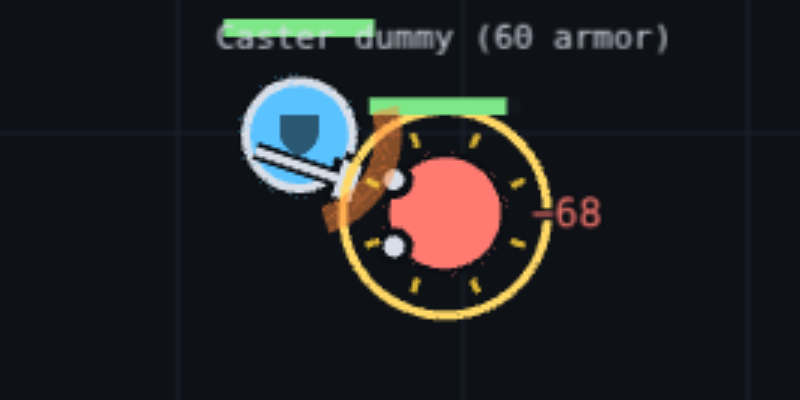
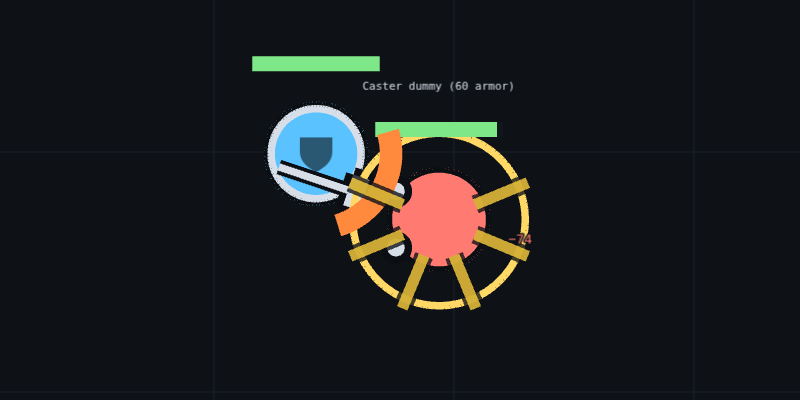
#3292: hit marks that read over the target ring
A flying spell's landing is its own shape now: thick, dark-outlined
ember spikes reaching past the target ring. An attack skill's star is
thick, dark-outlined and crosses the body's edge and the ring like a
crosshair. Both leave out the two spikes that would point up into the
health bar. The skill arc holds whole for its first 0.1 s so its warm
colour reads before it fades. Re-shot all three PNGs.

Changed region(s): [[0.25, 0.03, 0.75, 0.81], [0.5938, 0.06, 0.8438, 0.15]]

diff --git a/apps/web/src/render/body-impacts.ts b/apps/web/src/render/body-impacts.ts
@@ -14,13 +14,16 @@ import { SKILL_SPRITE } from "./projectiles.js";
  * impact"): every body it touched flashes for a moment. A burst of spikes
  * when it hurt or hindered that body, a glow when it helped, so the two
  * read without colour; the colour is the skill type's where the palette
- * has one, else what it did. A flying spell lands in a warm burst, and an
- * attack skill strikes a bigger gold star (#3292).
+ * has one, else what it did. A flying spell lands in a bigger warm
+ * burst, and an attack skill strikes a gold star across the body's edge,
+ * both thick, outlined and reaching past the target ring so they read
+ * over it (#3292).
  *
  * No Phaser here, so it can be tested in Node.
  */
 
-export type ImpactShape = "burst" | "star" | "glow";
+/** `landing` is a flying spell's burst, `star` an attack skill's (#3292). */
+export type ImpactShape = "burst" | "landing" | "star" | "glow";
 
 export interface Impact {
   /** The body it flashes on, drawn where that body is now. */
@@ -122,11 +125,19 @@ export function impactsFor(message: CombatMessage): readonly Impact[] {
         remainingSeconds: IMPACT_SECONDS,
       };
     }
+    if (flying) {
+      return {
+        anchorId,
+        shape: "landing",
+        colour: FLYING_SPELL_BURST_COLOUR,
+        remainingSeconds: IMPACT_SECONDS,
+      };
+    }
     const byEffect = seen.has("harm") ? DAMAGE_COLOUR : CONDITION_COLOUR;
     return {
       anchorId,
       shape: "burst",
-      colour: flying ? FLYING_SPELL_BURST_COLOUR : (typeColour ?? byEffect),
+      colour: typeColour ?? byEffect,
       remainingSeconds: IMPACT_SECONDS,
     };
   });
@@ -153,15 +164,44 @@ export function mergeImpacts(
 }
 
 export type ImpactMark =
-  | { readonly kind: "spike"; readonly from: Vec2; readonly to: Vec2; readonly alpha: number }
+  | {
+      readonly kind: "spike";
+      readonly from: Vec2;
+      readonly to: Vec2;
+      readonly alpha: number;
+      /** Line width, px; an outlined spike gets a dark edge under it. */
+      readonly width: number;
+      readonly outlined: boolean;
+    }
   | { readonly kind: "tint" | "ring"; readonly radius: number; readonly alpha: number };
 
 /** The burst's spikes. */
 export const IMPACT_SPIKES = 8;
-/** Every mark stays inside the body's radius plus this, clear of the target ring at r + 8. */
+/** A plain burst and a glow stay inside the body's radius plus this, clear of the target ring at r + 8. */
 export const IMPACT_REACH = 6;
-/** An attack skill's star reaches this many times as far as a burst (#3292). */
-export const STAR_REACH_SCALE = 1.5;
+
+/**
+ * A spiked shape's spikes, from the body's edge: where each starts and
+ * ends at the start of the flash, how far both move out by its end, and
+ * how they are drawn. A landing and a star reach past the target ring
+ * (r + 8), thick and outlined so they read over it in any colour, and
+ * leave out the spikes that would point up into the health bar (#3292).
+ */
+interface SpikeLook {
+  readonly inner: number;
+  readonly outer: number;
+  readonly grow: readonly [inner: number, outer: number];
+  readonly width: number;
+  readonly outlined: boolean;
+  readonly clearOfBar: boolean;
+}
+export const SPIKE_LOOK: Readonly<Record<Exclude<ImpactShape, "glow">, SpikeLook>> = {
+  burst: { inner: 1, outer: 3, grow: [2, 3], width: 1.5, outlined: false, clearOfBar: false },
+  landing: { inner: 2, outer: 9, grow: [2, 4], width: 3, outlined: true, clearOfBar: true },
+  star: { inner: -4, outer: 11, grow: [2, 3], width: 3, outlined: true, clearOfBar: true },
+};
+/** A spike pointing up more steeply than this (sine of its angle, y down) would cross the health bar. */
+const UP_INTO_BAR = -0.7;
 const GLOW_TINT_ALPHA = 0.35;
 
 /**
@@ -179,20 +219,22 @@ export function impactMarks(
     : Math.min(1, Math.max(0, 1 - impact.remainingSeconds / IMPACT_SECONDS));
   const alpha = reducedMotion ? 1 : 1 - progress;
   if (impact.shape !== "glow") {
-    const scale = impact.shape === "star" ? STAR_REACH_SCALE : 1;
-    const inner = radius + scale * (1 + 2 * progress);
-    const outer = radius + scale * (3 + 3 * progress);
+    const look = SPIKE_LOOK[impact.shape];
+    const inner = radius + look.inner + look.grow[0] * progress;
+    const outer = radius + look.outer + look.grow[1] * progress;
     return Array.from({ length: IMPACT_SPIKES }, (_, k) => {
       const angle = Math.PI / IMPACT_SPIKES + (k * 2 * Math.PI) / IMPACT_SPIKES;
-      const cos = Math.cos(angle);
-      const sin = Math.sin(angle);
-      return {
+      return { cos: Math.cos(angle), sin: Math.sin(angle) };
+    })
+      .filter(({ sin }) => !look.clearOfBar || sin >= UP_INTO_BAR)
+      .map(({ cos, sin }): ImpactMark => ({
         kind: "spike",
         from: vec2(cos * inner, sin * inner),
         to: vec2(cos * outer, sin * outer),
         alpha,
-      };
-    });
+        width: look.width,
+        outlined: look.outlined,
+      }));
   }
   const ringRadius = reducedMotion ? radius + 4 : radius + IMPACT_REACH - 4 * progress;
   return [

diff --git a/apps/web/src/render/body-impacts.test.ts b/apps/web/src/render/body-impacts.test.ts
@@ -7,7 +7,7 @@ import {
   IMPACT_REACH,
   IMPACT_SECONDS,
   MAX_IMPACTS,
-  STAR_REACH_SCALE,
+  SPIKE_LOOK,
   impactMarks,
   impactsFor,
   mergeImpacts,
@@ -157,9 +157,9 @@ describe("impactsFor (#1139)", () => {
 describe("impactsFor, flight and hit (#3292)", () => {
   const hit = { kind: "damage", targetId: "foe", amount: 50, critical: false } as const;
 
-  it("lands a flying spell that hit in a warm burst, and shows nothing for one that missed", () => {
+  it("lands a flying spell that hit in a warm landing burst, and shows nothing for one that missed", () => {
     expect(shapes(message("elementalist.glowstone", [hit]))).toEqual([
-      ["foe", "burst", FLYING_SPELL_BURST_COLOUR],
+      ["foe", "landing", FLYING_SPELL_BURST_COLOUR],
     ]);
     expect(
       shapes(
@@ -167,7 +167,7 @@ describe("impactsFor, flight and hit (#3292)", () => {
           { kind: "status-applied", targetId: "foe", statusId: "blind", durationSeconds: 3 },
         ]),
       ),
-    ).toEqual([["foe", "burst", FLYING_SPELL_BURST_COLOUR]]);
+    ).toEqual([["foe", "landing", FLYING_SPELL_BURST_COLOUR]]);
     expect(
       shapes(message("elementalist.glowstone", [{ kind: "attack-dodged", targetId: "foe" }])),
     ).toEqual([]);
@@ -246,19 +246,43 @@ describe("impactMarks (#1139)", () => {
     }
   });
 
-  it("reaches half as far again for an attack skill's star, 8 spikes like a burst (#3292)", () => {
-    for (const reducedMotion of [false, true]) {
-      for (let step = 0; step <= 10; step += 1) {
-        const remainingSeconds = (IMPACT_SECONDS * step) / 10;
-        const burst = impactMarks(impact("a", remainingSeconds), 14, reducedMotion);
-        const star = impactMarks(
-          { ...impact("a", remainingSeconds), shape: "star" },
-          14,
-          reducedMotion,
-        );
-        expect(star).toHaveLength(8);
-        expect(reach(star) - 14).toBeCloseTo(STAR_REACH_SCALE * (reach(burst) - 14), 9);
-        expect(reach(star)).toBeLessThanOrEqual(14 + STAR_REACH_SCALE * IMPACT_REACH + 1e-9);
+  it("reaches a landing and a star past the target ring, thick and outlined, clear of the health bar (#3292)", () => {
+    for (const shape of ["landing", "star"] as const) {
+      for (const reducedMotion of [false, true]) {
+        for (let step = 0; step <= 10; step += 1) {
+          const remainingSeconds = (IMPACT_SECONDS * step) / 10;
+          const marks = impactMarks({ ...impact("a", remainingSeconds), shape }, 14, reducedMotion);
+          // 8 round, less the two that would point up into the bar.
+          expect(marks).toHaveLength(6);
+          for (const mark of marks) {
+            if (mark.kind !== "spike") {
+              throw new Error("a spiked shape draws only spikes");
+            }
+            const out = Math.hypot(mark.to.x, mark.to.y);
+            // Past the target ring at r + 8, and the dashed edge a ward draws.
+            expect(out).toBeGreaterThan(14 + 8);
+            expect(out).toBeLessThanOrEqual(14 + 15);
+            expect(mark.to.y / out).toBeGreaterThanOrEqual(-0.7);
+            expect(mark.width).toBeGreaterThanOrEqual(3);
+            expect(mark.outlined).toBe(true);
+          }
+        }
+      }
+    }
+    expect(SPIKE_LOOK.burst.outlined).toBe(false);
+  });
+
+  it("crosses the body's edge with an attack skill's star, like a crosshair (#3292)", () => {
+    for (let step = 0; step <= 10; step += 1) {
+      const remainingSeconds = (IMPACT_SECONDS * step) / 10;
+      for (const mark of impactMarks(
+        { ...impact("a", remainingSeconds), shape: "star" },
+        14,
+        false,
+      )) {
+        if (mark.kind === "spike") {
+          expect(Math.hypot(mark.from.x, mark.from.y)).toBeLessThan(14);
+        }
       }
     }
     const fresh = impactMarks({ ...impact("a"), shape: "star" }, 14, true);

diff --git a/apps/web/src/render/arena-scene.ts b/apps/web/src/render/arena-scene.ts
@@ -464,6 +464,9 @@ const EDGE_MARKER_LENGTH = 12;
 const EDGE_MARKER_WIDTH = 10;
 /** A skill impact's spikes and ring (#1139). */
 const IMPACT_LINE_WIDTH = 1.5;
+/** An outlined impact spike's dark edge (#3292): this much wider than the spike, the sprites' outline colour. */
+const IMPACT_OUTLINE = 2;
+const IMPACT_OUTLINE_COLOUR = 0x0e1116;
 /**
  * The world's layers, bottom up (#1037). Wards on the floor and their
  * icons (#1087), under everything that stands on them; the grid and the
@@ -1750,7 +1753,11 @@ export class ArenaScene extends Phaser.Scene {
     const { x, y } = actor.position;
     for (const mark of impactMarks(impact, actor.radius, this.reducedMotion)) {
       if (mark.kind === "spike") {
-        g.lineStyle(IMPACT_LINE_WIDTH, impact.colour, mark.alpha);
+        if (mark.outlined) {
+          g.lineStyle(mark.width + IMPACT_OUTLINE, IMPACT_OUTLINE_COLOUR, mark.alpha);
+          g.lineBetween(x + mark.from.x, y + mark.from.y, x + mark.to.x, y + mark.to.y);
+        }
+        g.lineStyle(mark.width, impact.colour, mark.alpha);
         g.lineBetween(x + mark.from.x, y + mark.from.y, x + mark.to.x, y + mark.to.y);
       } else if (mark.kind === "tint") {
         g.fillStyle(impact.colour, mark.alpha);

diff --git a/apps/web/src/render/combat-feedback.test.ts b/apps/web/src/render/combat-feedback.test.ts
@@ -466,7 +466,7 @@ describe("swingFlashFor (#161)", () => {
     ).toBeUndefined();
   });
 
-  it("fades an attack skill's arc out in 0.2 s, and holds it whole under reduced motion", () => {
+  it("holds an attack skill's arc whole for 0.1 s, fades it out by 0.2 s, and holds it whole under reduced motion", () => {
     const arc = swingFlashFor(
       { ...swing("skill"), skillId: "warrior.mighty-blow" },
       snapshot("sword"),
@@ -477,8 +477,10 @@ describe("swingFlashFor (#161)", () => {
     const flash = { ...arc, id: 1 };
     expect(swingFlashAlpha(flash, false)).toBe(1);
     const [half] = decaySwingFlashes([flash], SKILL_ARC_SECONDS / 2);
-    expect(half === undefined ? 0 : swingFlashAlpha(half, false)).toBeCloseTo(0.5, 9);
+    expect(half === undefined ? 0 : swingFlashAlpha(half, false)).toBeCloseTo(1, 9);
     expect(half === undefined ? 0 : swingFlashAlpha(half, true)).toBe(1);
+    const [late] = decaySwingFlashes([flash], (SKILL_ARC_SECONDS * 3) / 4);
+    expect(late === undefined ? 0 : swingFlashAlpha(late, false)).toBeCloseTo(0.5, 9);
     expect(decaySwingFlashes([flash], SKILL_ARC_SECONDS + 0.01)).toEqual([]);
   });
 

diff --git a/apps/web/src/render/arena-snapshot.ts b/apps/web/src/render/arena-snapshot.ts
@@ -451,13 +451,19 @@ export function decaySwingFlashes(flashes: readonly SwingFlash[], dt: number): S
     .filter((flash) => flash.remainingSeconds > 0);
 }
 
-/** A flash's opacity: 1 when it swings, 0 when it is gone; held whole under `reducedMotion`. */
+/**
+ * A flash's opacity: 1 when it swings, 0 when it is gone; held whole under
+ * `reducedMotion`. An attack skill's arc holds whole for its first half,
+ * so its colour reads before it fades (#3292).
+ */
 export function swingFlashAlpha(flash: SwingFlash, reducedMotion: boolean): number {
-  if (reducedMotion && flash.kind === "skill") {
+  if (flash.kind === "swing") {
+    return Math.max(0, Math.min(1, flash.remainingSeconds / SWING_FLASH_SECONDS));
+  }
+  if (reducedMotion) {
     return 1;
   }
-  const seconds = flash.kind === "skill" ? SKILL_ARC_SECONDS : SWING_FLASH_SECONDS;
-  return Math.max(0, Math.min(1, flash.remainingSeconds / seconds));
+  return Math.max(0, Math.min(1, (2 * flash.remainingSeconds) / SKILL_ARC_SECONDS));
 }
 
 /**

diff --git a/docs/art/visual-style.md b/docs/art/visual-style.md
@@ -193,11 +193,15 @@ Every rule below can be checked from one screenshot.
 8. **At 16 px** a zone is still told from the next by hue **and** edge.
 9. **Colour-blind pass**: view the screenshot in grey; the danger edge and
    the telegraph still stand out.
-10. **A flying spell** keeps its own sprite and adds a near-white core, a
-    ground shadow on the deck under it and a short warm trail; it lands in an
-    8-spike ember burst, and a miss shows none (#3292).
+10. **A flying spell** keeps its own sprite and adds a near-white core on
+    its head, a ground shadow on the deck under it and a short warm trail
+    behind its tail, all sized from the sprite as drawn; it lands in a
+    thick, dark-outlined ember burst reaching past the target ring, and a
+    miss shows none (#3292).
 11. **An attack skill** strikes a thick warm arc over the plain swing (melee
-    only) and a gold impact star half as big again as a burst (#3292).
+    only), held whole before it fades, and a thick, dark-outlined gold star
+    crossing the body's edge and the target ring. Neither hit mark points up
+    into the health bar (#3292).
 
 Rules 3 and 7 are checked by CI (#3251): `render/visibility-gate.test.ts`
 draws every map through the scene's own map drawing, records each filled
